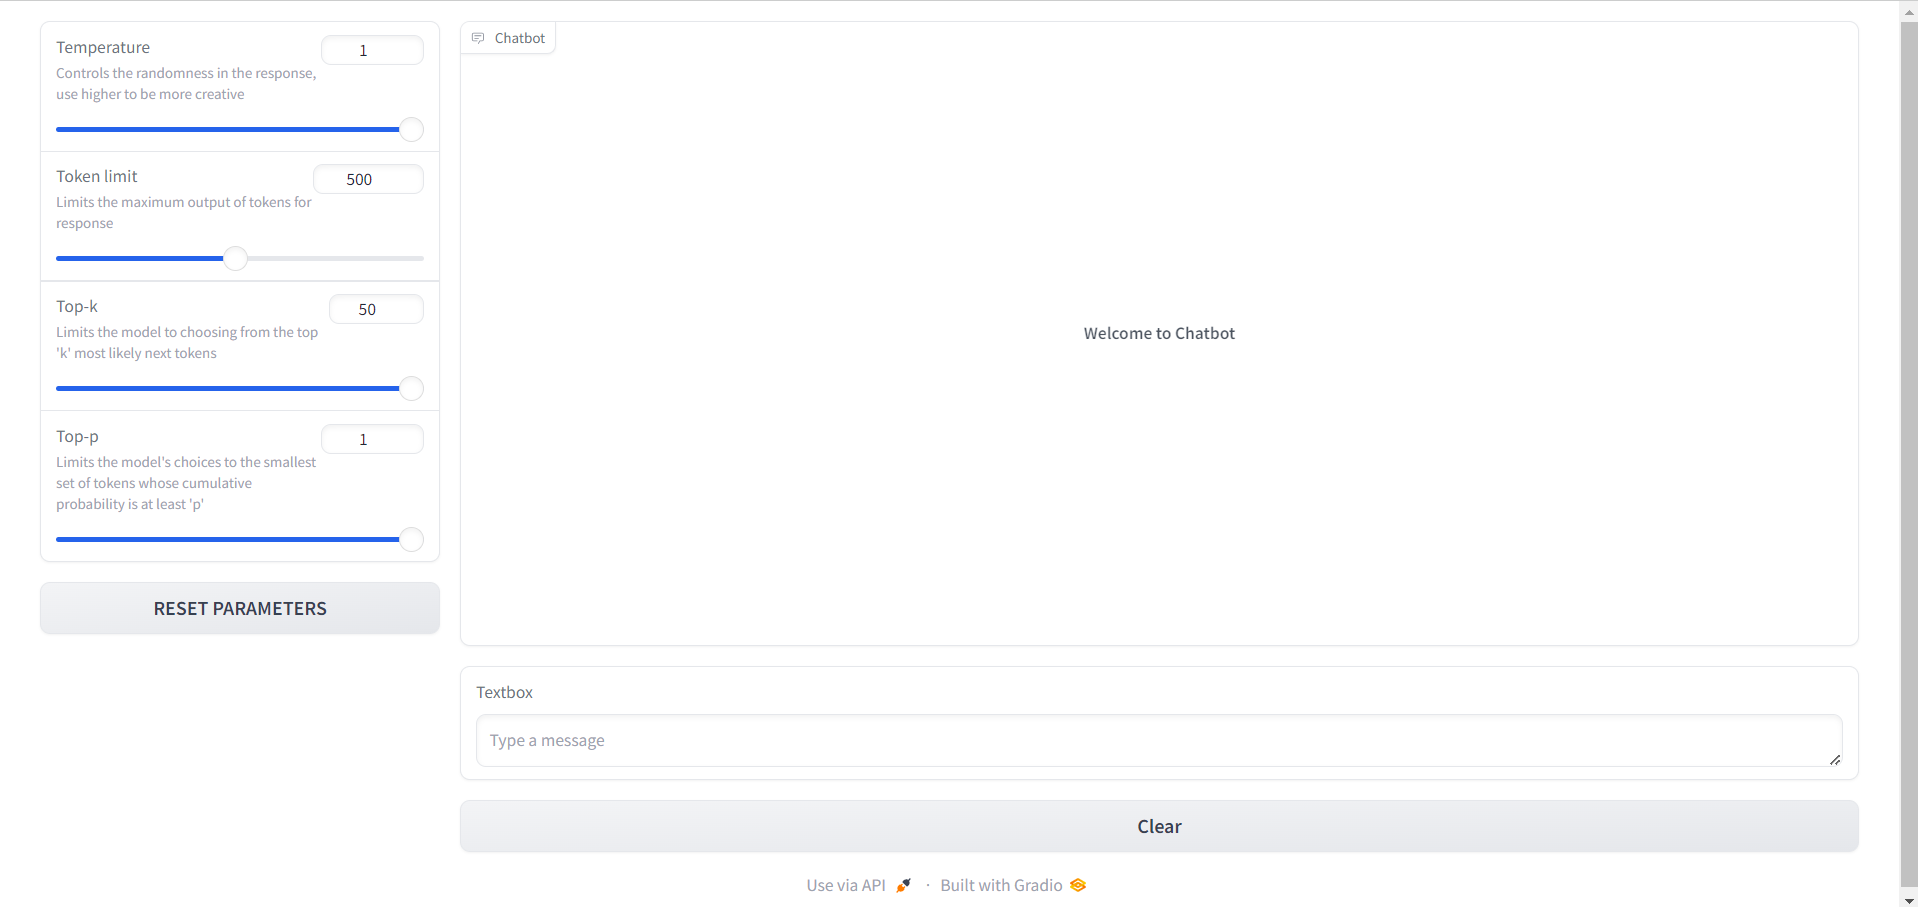
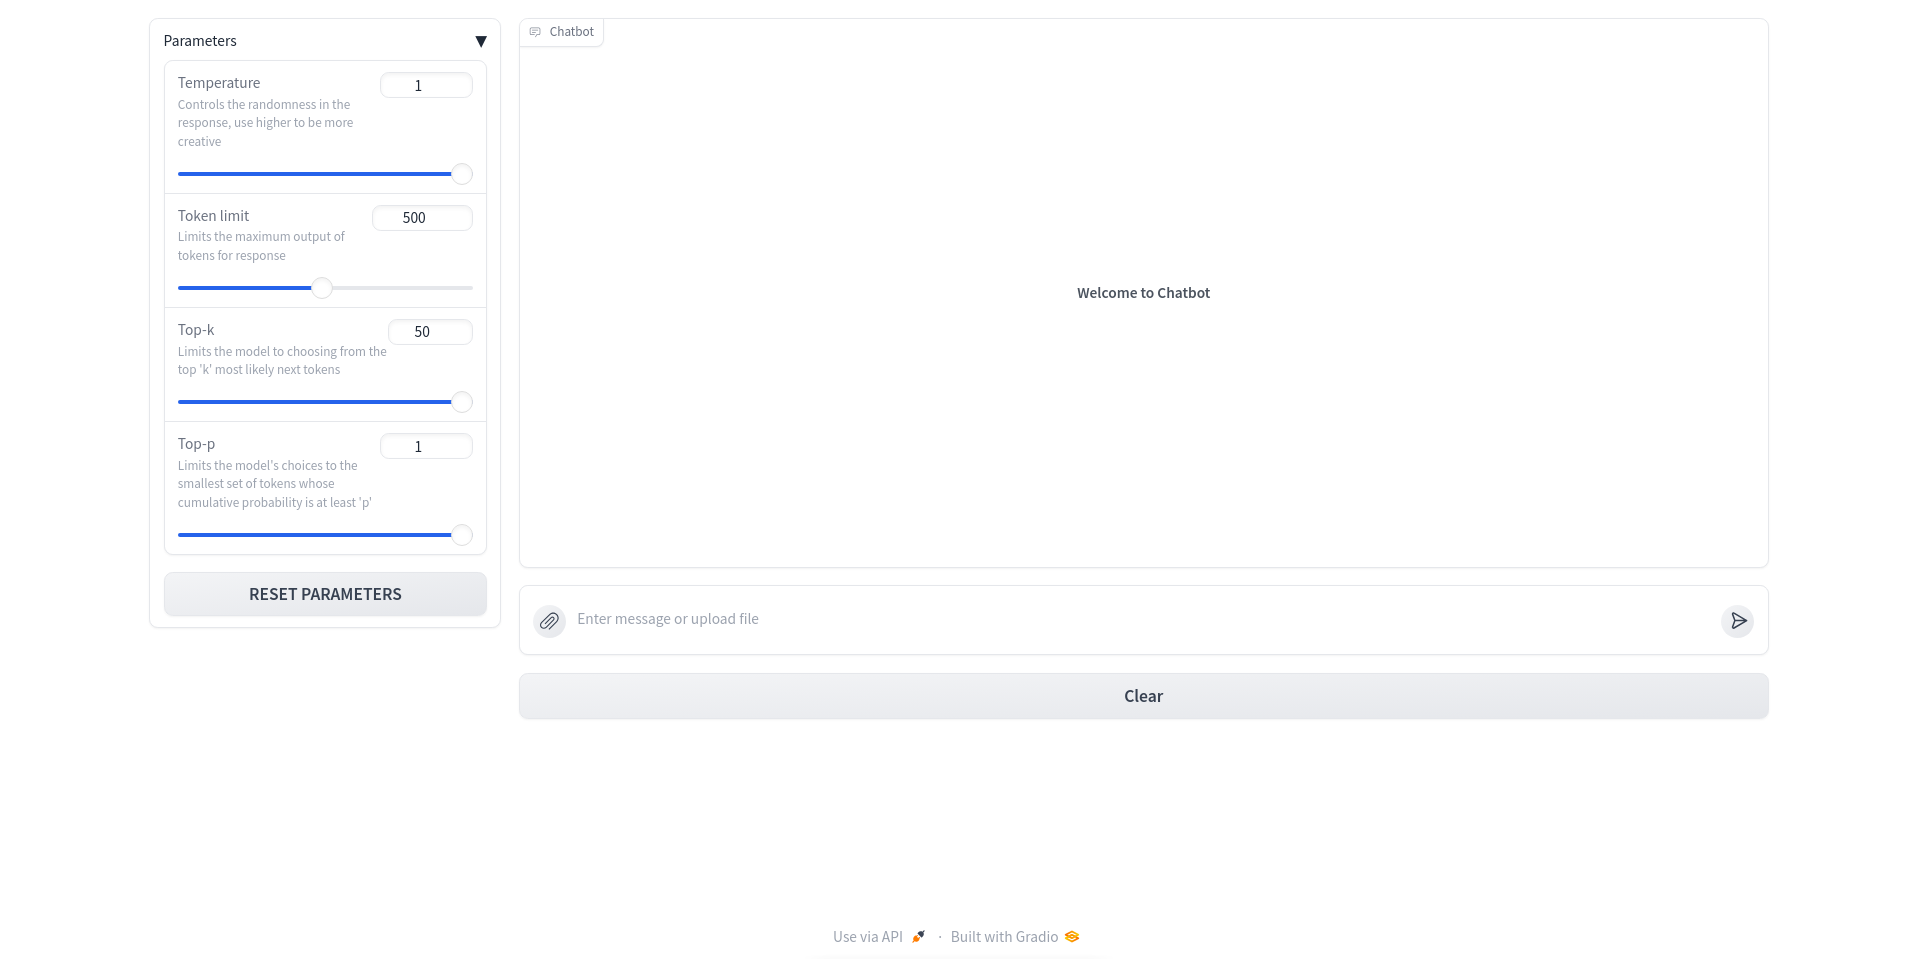
Update README.md, web-interface.png and requirement, change main.py to app.py and add utils.py

diff --git a/app.py b/app.py
@@ -1,0 +1,59 @@
+import gradio as gr
+from utils import load_embeddings, load_pdf, spilt_text, load_vector_db, create_prompt, load_model, load_pipe, generate_response, generate_rag_response
+
+embeddings = load_embeddings("sentence-transformers/all-MiniLM-L6-v2")
+
+def reset_params():
+    temp = 1.0
+    max_tokens = 500
+    top_k = 50
+    top_p = 1.0
+    return temp, max_tokens, top_k, top_p
+
+def user(user_message, chat_history):
+    chat_history.append((user_message["text"], None))
+    return gr.MultimodalTextbox(value=user_message), chat_history
+
+def bot(user_message, chat_history, temp, max_tokens, top_k, top_p):
+    model, tokenizer = load_model("microsoft/Phi-3-mini-4k-instruct")
+    if user_message["files"]:
+        docs = load_pdf(user_message["files"][0])
+        splits, ids = spilt_text(docs, 300, 50)
+        vector_store = load_vector_db("collection", embeddings)
+        vector_store.add_documents(documents=splits, ids=ids)
+        retriever = vector_store.as_retriever(search_kwargs={"k": 1})
+        template = """Answer the question based only on the following context:
+        {context}
+
+        Question: {question}"""
+        prompt = create_prompt(template)
+        llm = load_pipe(model, tokenizer, temp, max_tokens, top_k, top_p)
+        bot_message = generate_rag_response(retriever, prompt, llm, user_message["text"])
+    else:
+        bot_message = generate_response(user_message["text"], model, tokenizer, temp, max_tokens, top_k, top_p)
+    chat_history.append((None, bot_message))
+    return gr.MultimodalTextbox(value=None), chat_history
+
+with gr.Blocks() as demo:
+    with gr.Row():
+        with gr.Column(scale=1):
+            with gr.Accordion("Parameters", open=True):
+                temp = gr.Slider(label="Temperature", value=1.0, minimum=0.0, maximum=1.0, step=0.1, interactive=True, info="Controls the randomness in the response, use higher to be more creative")
+                max_tokens = gr.Slider(label="Token limit", value=500, minimum=0, maximum=1024, step=1, interactive=True, info="Limits the maximum output of tokens for response")
+                top_k = gr.Slider(label="Top-k", value=50, minimum=0, maximum=50, step=1, interactive=True, info="Limits the model to choosing from the top 'k' most likely next tokens")
+                top_p = gr.Slider(label="Top-p", value=1.0, minimum=0.0, maximum=1.0, step=0.1, interactive=True, info="Limits the model's choices to the smallest set of tokens whose cumulative probability is at least 'p'")
+                reset_params_button = gr.Button("RESET PARAMETERS")
+                reset_params_button.click(reset_params, None, outputs=[temp, max_tokens, top_k, top_p])
+            
+        with gr.Column(scale=4):
+            chatbot = gr.Chatbot(placeholder="<strong>Welcome to Chatbot</strong>", height=500, avatar_images=(None, "images/assistant.png"))
+            msg = gr.MultimodalTextbox(label="Context", placeholder="Enter message or upload file", file_count="multiple", interactive=True, show_label=False)
+            clear_button = gr.Button("Clear")  
+            
+            msg.submit(user, [msg, chatbot], [msg, chatbot], queue=False).then(
+                bot, [msg, chatbot, temp, max_tokens, top_k, top_p], [msg, chatbot]
+            )
+            clear_button.click(lambda: None, None, chatbot, queue=False)
+  
+if __name__ == "__main__":
+    demo.launch()

diff --git a/utils.py b/utils.py
@@ -1,0 +1,87 @@
+from langchain_huggingface import HuggingFaceEmbeddings, HuggingFacePipeline
+from langchain_community.document_loaders import PyPDFLoader
+from langchain.text_splitter import RecursiveCharacterTextSplitter
+from langchain_chroma import Chroma
+from langchain.prompts import ChatPromptTemplate
+from langchain_core.runnables import RunnablePassthrough
+from langchain_core.output_parsers import StrOutputParser
+
+from transformers import AutoModelForCausalLM, AutoTokenizer, pipeline 
+
+def load_embeddings(embeddings_model):
+    return HuggingFaceEmbeddings(model_name = embeddings_model)
+
+def load_pdf(file):
+    loader = PyPDFLoader(file)
+    docs = loader.load()
+    return docs
+
+def spilt_text(docs, chunksize, chunk_overlap):
+    text_splitter = RecursiveCharacterTextSplitter.from_tiktoken_encoder(
+        chunk_size=chunksize, 
+        chunk_overlap=chunk_overlap
+    )
+    splits = text_splitter.split_documents(docs)
+    ids = [f"{i}" for i in range(len(splits))]
+    return splits, ids
+    
+def load_vector_db(collection_name, embedding_function):
+    return Chroma(
+        collection_name=collection_name,
+        embedding_function=embedding_function
+    )
+    
+def create_prompt(template):
+    return ChatPromptTemplate.from_template(template)
+    
+def load_model(llm_model):
+    model = AutoModelForCausalLM.from_pretrained( 
+        llm_model,  
+        device_map="cuda",  
+        torch_dtype="auto",  
+        trust_remote_code=True, 
+    ) 
+    tokenizer = AutoTokenizer.from_pretrained(llm_model)
+    return model, tokenizer
+
+def load_pipe(model, tokenizer, temp, max_tokens, top_k, top_p):
+    pipe = pipeline( 
+        "text-generation", 
+        model=model, 
+        tokenizer=tokenizer,
+        max_new_tokens=max_tokens,
+        do_sample=True,
+        temperature=temp, 
+        top_k=top_k,
+        top_p=top_p,
+    ) 
+    return HuggingFacePipeline(pipeline=pipe)
+
+def generate_response(user_message, model, tokenizer, temp, max_tokens, top_k, top_p):
+    pipe = pipeline( 
+        "text-generation", 
+        model=model, 
+        tokenizer=tokenizer, 
+    ) 
+
+    generation_args = { 
+        "max_new_tokens": max_tokens, 
+        "return_full_text": False, 
+        "do_sample": True, 
+        "temperature": temp, 
+        "top_k": top_k,
+        "top_p": top_p,
+    } 
+    
+    output = pipe(user_message, **generation_args) 
+    return output[0]['generated_text']
+
+
+def generate_rag_response(retriever, prompt, llm, question):
+    rag_chain = (
+        {"context": retriever, "question": RunnablePassthrough()}
+        | prompt
+        | llm
+        | StrOutputParser()
+    )
+    return rag_chain.invoke(question)

diff --git a/README.md b/README.md
@@ -1,6 +1,6 @@
 # Chatbot Web UI
 
-This project features a web-based chatbot interface built using [Gradio library](https://gradio.app/) and model from the [Hugging Face Transformers library](https://huggingface.co/transformers/). The interface allows users to interact with an AI model, customize text generation parameters, and engage in dynamic conversations.
+This project is a Gradio-based chatbot application that leverages the power of LangChain and Hugging Face models to perform both conversational AI and PDF document retrieval. The chatbot is capable of handling text-based queries, generating responses based on Large Language Models (LLMs), customize text generation parameters and retrieving information from uploaded PDF documents.
 
 ![web-interface](images/web-interface.png)
 
@@ -24,7 +24,7 @@ pip install -r requirements.txt
 1. Run the following command to start the chatbot interface:
 
 ```bash
-python main.py
+python3 app.py
 ```
 
 2. Once the server is running, open your web browser and navigate to http://127.0.0.1:7860 to access the chatbot interface.
